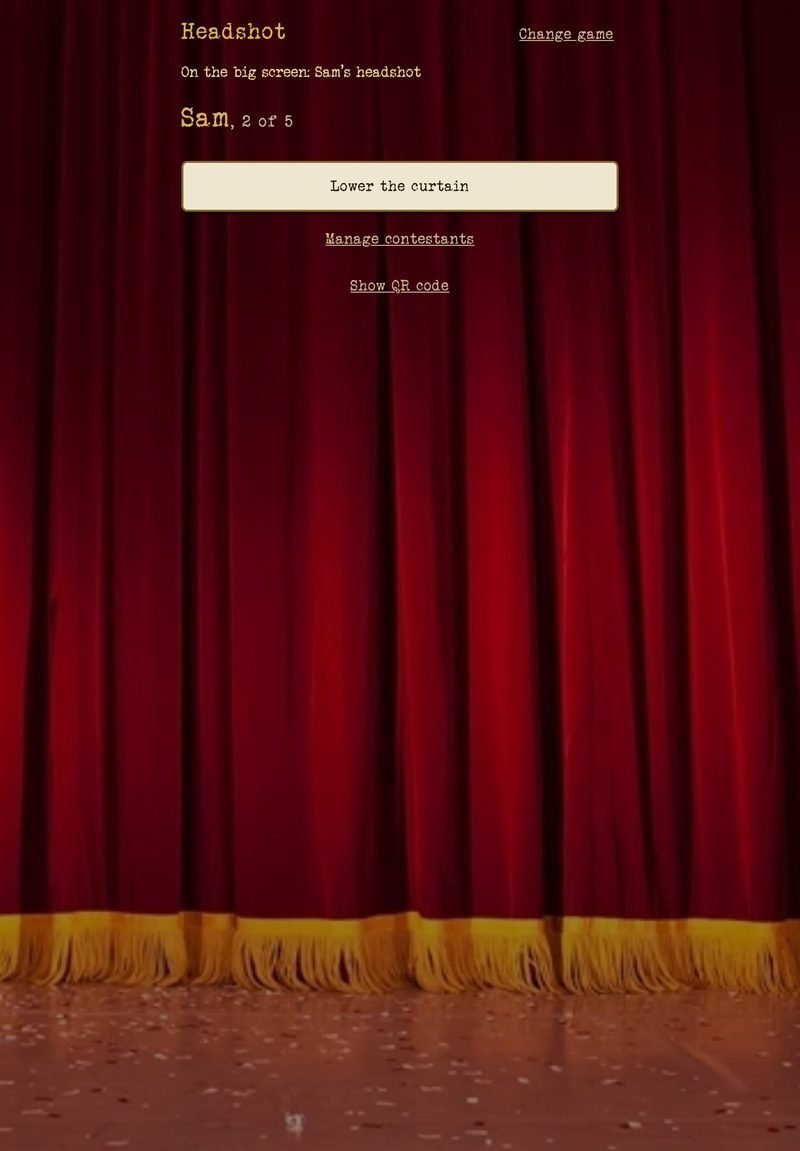
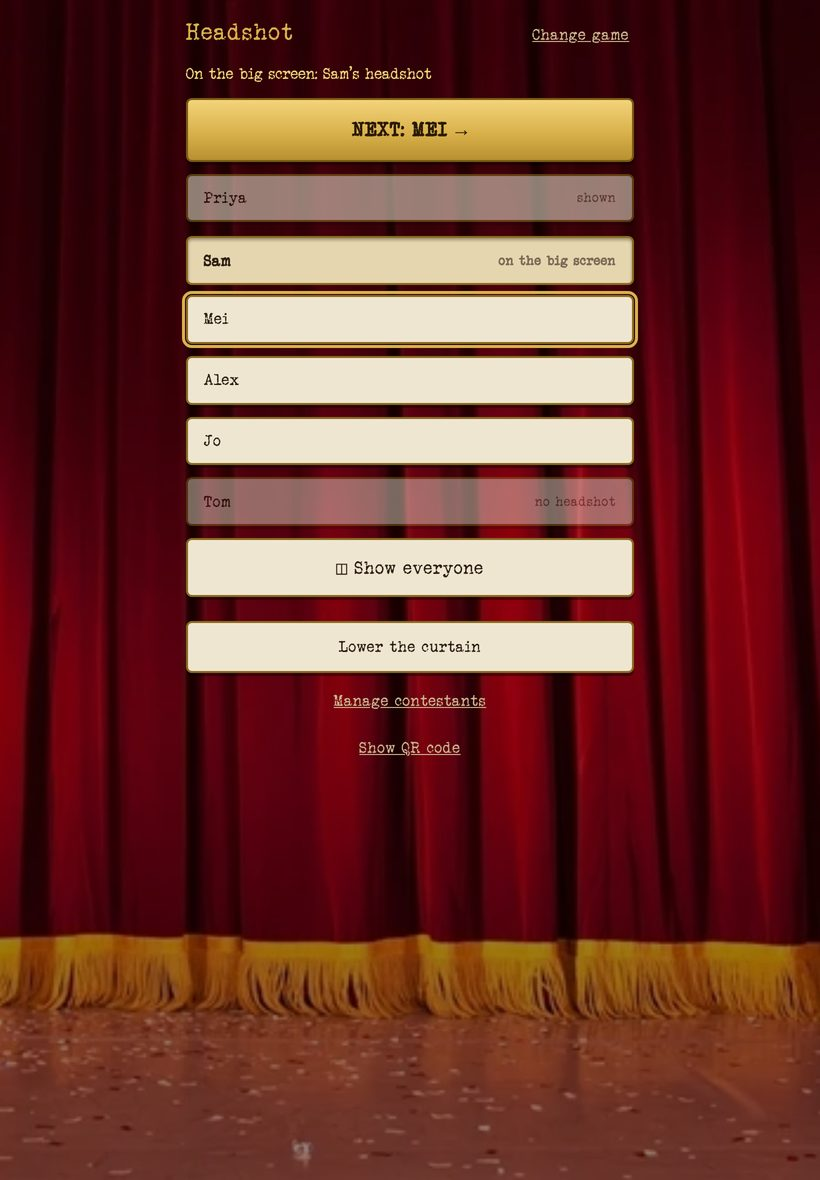
Headshot task runs from one list on the remote
Tapping a name puts their headshot up and tapping another switches to
theirs, with the one up pressed in. Next, Show everyone and Lower the
curtain stay on the same screen instead of a screen per headshot.

Claude-Session: https://claude.ai/code/session_01SM2rVXwtAWVxdZH9V8TcNG

Changed region(s): [[0.2188, 0.0608, 0.7812, 0.6386]]

diff --git a/src/games/headshots/HostControls.tsx b/src/games/headshots/HostControls.tsx
@@ -2,33 +2,22 @@ import { setDisplay } from "../../session";
 import type { Display, Session } from "../../types";
 import { headshots, showEveryone, showHeadshot, shownOf } from "./data";
 
-/** Unused: a headshot on screen is handled in HostLobby, since contestants aren't players. */
+/** Unused: the whole task runs from HostLobby's one list, since contestants aren't players. */
 export function HostPlayer(_: { code: string; session: Session; display: Display; uid: string }) {
   return null;
 }
 
 /**
- * The host's phone: Photos' running order, over the scoreboard's headshots instead of submissions.
- * Contestants without a headshot are listed, greyed, so a missing one is noticed.
+ * The host's phone: one list for the whole task. Tapping a name puts their headshot on the big screen
+ * (and tapping another switches straight to theirs); the one up is marked. The gold button is the next
+ * one nobody has seen yet. Contestants without a headshot are listed, greyed, so a missing one is noticed.
  */
 export function HostLobby({ code, session, display }: { code: string; session: Session; display: Display }) {
   const ready = headshots(session);
   const shown = shownOf(session);
   const all = Object.entries(session.scoreboard?.contestants ?? {}).sort(([, a], [, b]) => a.order - b.order);
   const up = display.step === "photo" ? display.contestant : undefined;
-  const current = up ? session.scoreboard?.contestants?.[up] : undefined;
-
-  if (up && current) {
-    const place = ready.findIndex(([id]) => id === up) + 1;
-    return (
-      <>
-        <h2 className="contestant">{current.name}{place > 0 && <span className="muted">, {place} of {ready.length}</span>}</h2>
-        <button className="lower" onClick={() => void setDisplay(code, { step: "curtain" })}>Lower the curtain</button>
-      </>
-    );
-  }
-
-  const next = ready.find(([id]) => !shown[id]);
+  const next = ready.find(([id]) => !shown[id] && id !== up);
   const shownCount = ready.filter(([id]) => shown[id]).length;
   return (
     <>
@@ -39,10 +28,10 @@ export function HostLobby({ code, session, display }: { code: string; session: S
       {all.length === 0 && <p className="muted">No contestants on the scoreboard yet.</p>}
       <ul className="picker running">
         {all.map(([id, c]) => (
-          <li key={id} className={shown[id] ? "shown" : next?.[0] === id ? "next" : ""}>
-            <button disabled={!c.photo} onClick={() => void showHeadshot(code, id)}>
+          <li key={id} className={id === up ? "up" : shown[id] ? "shown" : next?.[0] === id ? "next" : ""}>
+            <button disabled={!c.photo} aria-pressed={id === up} onClick={() => void showHeadshot(code, id)}>
               <span>{c.name}</span>
-              <span className="muted small">{!c.photo ? "no headshot" : shown[id] ? "shown" : ""}</span>
+              <span className="muted small">{!c.photo ? "no headshot" : id === up ? "on the big screen" : shown[id] ? "shown" : ""}</span>
             </button>
           </li>
         ))}
@@ -53,6 +42,7 @@ export function HostLobby({ code, session, display }: { code: string; session: S
           {display.step === "grid" ? "✕ Close" : "◫ Show everyone"}
         </button>
       </div>
+      {(up || display.step === "grid") && <button className="lower" onClick={() => void setDisplay(code, { step: "curtain" })}>Lower the curtain</button>}
     </>
   );
 }

diff --git a/src/styles.css b/src/styles.css
@@ -712,6 +712,8 @@ body.idle-cursor .stage { cursor: none; }
 /* the running order: shown contestants dimmed, the next one outlined in gold */
 .picker.running li.shown > button:first-child { opacity: 0.55; }
 .picker.running li.next > button:first-child { outline: 3px solid var(--gold); outline-offset: 1px; }
+/* the one on the big screen right now (Headshot task): pressed in, like a marked chip */
+.picker.running li.up > button:first-child { transform: translateY(2px); box-shadow: inset 0 2px 3px #0005; background: #e6d6b0; font-weight: bold; }
 .picker.running li > button:first-child { flex-direction: row; align-items: center; justify-content: space-between; gap: 0.5rem; flex-wrap: wrap; }
 .picker.running .stamp { font-size: 0.75rem; align-self: center; }
 /* the resubmit column keeps its width on every row, so names line up */

diff --git a/docs/redesign-decisions.md b/docs/redesign-decisions.md
@@ -194,6 +194,7 @@ The Taskmaster Scoreboard (Jeffrey's fork of VodBox's tm-scoreboard, with iPad c
 | Task list | On the 🏆 page under the contestants, in running order: "≡ 1 Headshot · scored", "≡ 2 Before & After · app game · ▶ Start", "≡ 3 Build the tallest tower ← next". Two equal paper buttons, "+ Live task" (a name and an optional description) and "+ App game" (picked from the games as chips). ≡ drags to reorder. Tapping a task opens its points (the frequent action during the party); ✎ fixes its name or note, or removes it. "← next" is the task after the last one with any points. "scored" is muted text and "← next" marks the task the points page opens on. ▶ Start only on app games, doing exactly what picking that game does. | A stamp for "scored": stamps mean a guest is done. |
 | Several photo tasks | A party can have several photo tasks, each with its own photos. ✎ on an app game takes an optional name, shown as "Photos: best costume" in the list, on the points page and on the host remote while that set is on. ▶ Start on a photo task puts its own photos on and puts the last task's away, so an earlier task's photos can be shown again later in the night. Photos started from the game picker stay with whatever set is on; a set taken without a task goes to the first photo task started. | Clearing the photos when a new photo task starts: an earlier task's photos would be lost for good. |
 | Headshot task | "Headshot" is an app game that lives only on the scoreboard's "+ App game" chips, never the game picker. ▶ Start runs it like Photos: the remote's gold "First up: Priya →" running order, "shown" and "no headshot" in muted text, "◫ Show everyone", and "Lower the curtain" while one is up; the big screen hangs each headshot in the gold frame labelled "headshot · Sam", or everyone's in the Photos grid. Its photos are the headshots in the scoreboard's frames, checked in or not, in the scoreboard's order, so nobody submits anything and phones just say "Everyone's headshot is going up on the big screen." | Collecting the headshots again as a Photos task: guests already gave one at check-in. |
+| Headshot task on the remote | The whole task runs from one list. Tapping any name puts their headshot up, and tapping another switches straight to theirs; the one up is pressed in and reads "on the big screen". The gold "Next: Mei →", "◫ Show everyone" and "Lower the curtain" stay on the same screen. | A separate screen per headshot, as Photos has: there's nothing to do on it but lower the curtain. |
 | New party's list | Every new party starts with "Headshot" and "Prize task" (a live task) at the top of its task list, whether it's made on the remote or the big screen. Both can be reordered, renamed or removed like any task. | An empty list to fill each time: both happen at every party. |
 | Task descriptions | A task can carry its description, like the headshot task: "Take the most unjustifiably confident headshot of yourself. Most unjustifiably confident headshot wins." It is a note for the host on the remote only, shown as a short first line under the task. During a live task the big screen shows the curtain with the party's portrait, as usual. | The description on the big screen as the torn-paper task card. |
 | Opening it | The host remote, usually an iPad, sometimes an iPhone. A 🏆 icon in the header beside 🎵 and 💡 opens the scoreboard page, with "← Back to the show". | A tab: the host remote has no tabs any more. |

diff --git a/docs/screens/README.md b/docs/screens/README.md
@@ -53,7 +53,7 @@ Scoreboard (taken on 2026-10-12, from the real components with made-up sessions;
 | `checkin-phone-not-on-list.jpg` | Not on the list: typing a name, "Back to the list" |
 | `checkin-phone-headshot.jpg` | No headshot on file: "Add your headshot" |
 | `headshot-task-host.jpg` | Headshot task on the remote: running order, "no headshot", Show everyone |
-| `headshot-task-host-up.jpg` | A headshot on the big screen, from the remote |
+| `headshot-task-host-up.jpg` | A headshot on the big screen: still the one list, Sam pressed in as "on the big screen", Next, Lower the curtain |
 | `headshot-task-main.jpg` | Main screen: one headshot in the gold frame |
 | `headshot-task-main-everyone.jpg` | Main screen: everyone's headshots |
 | `host-party-settings-name.jpg` | Party settings: renaming the party |
